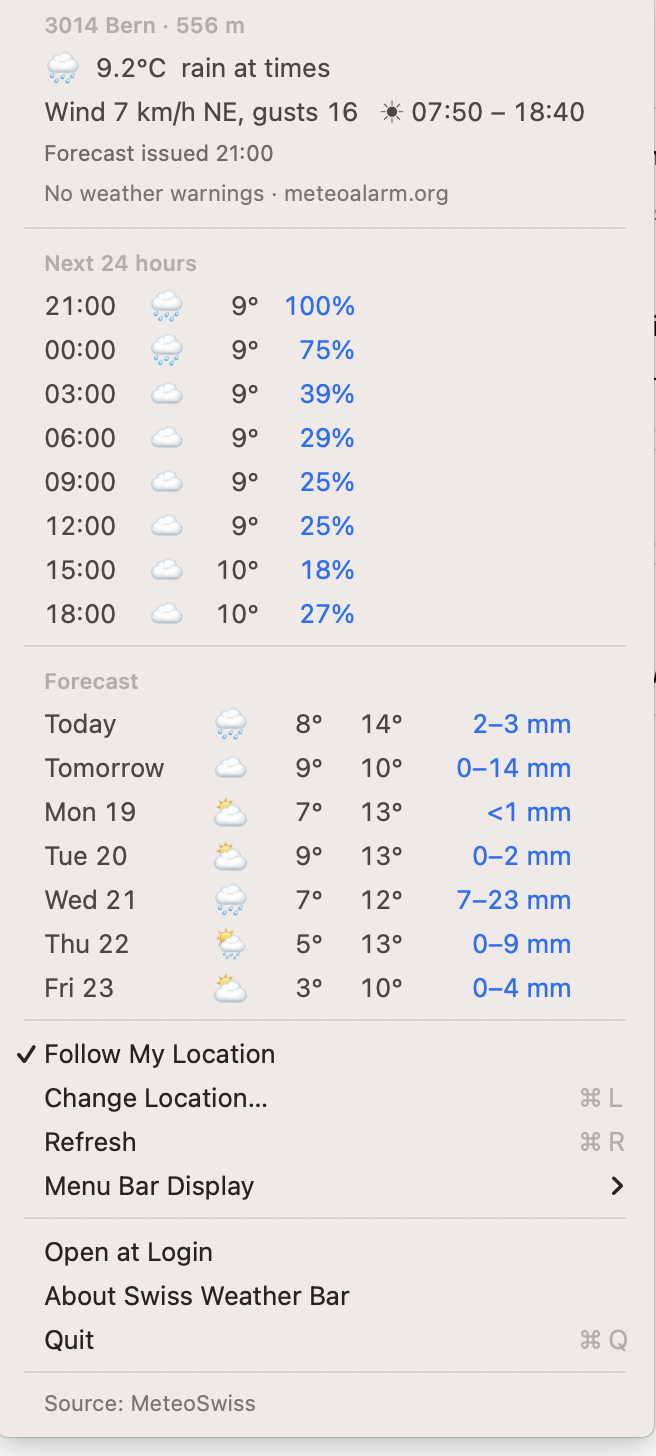
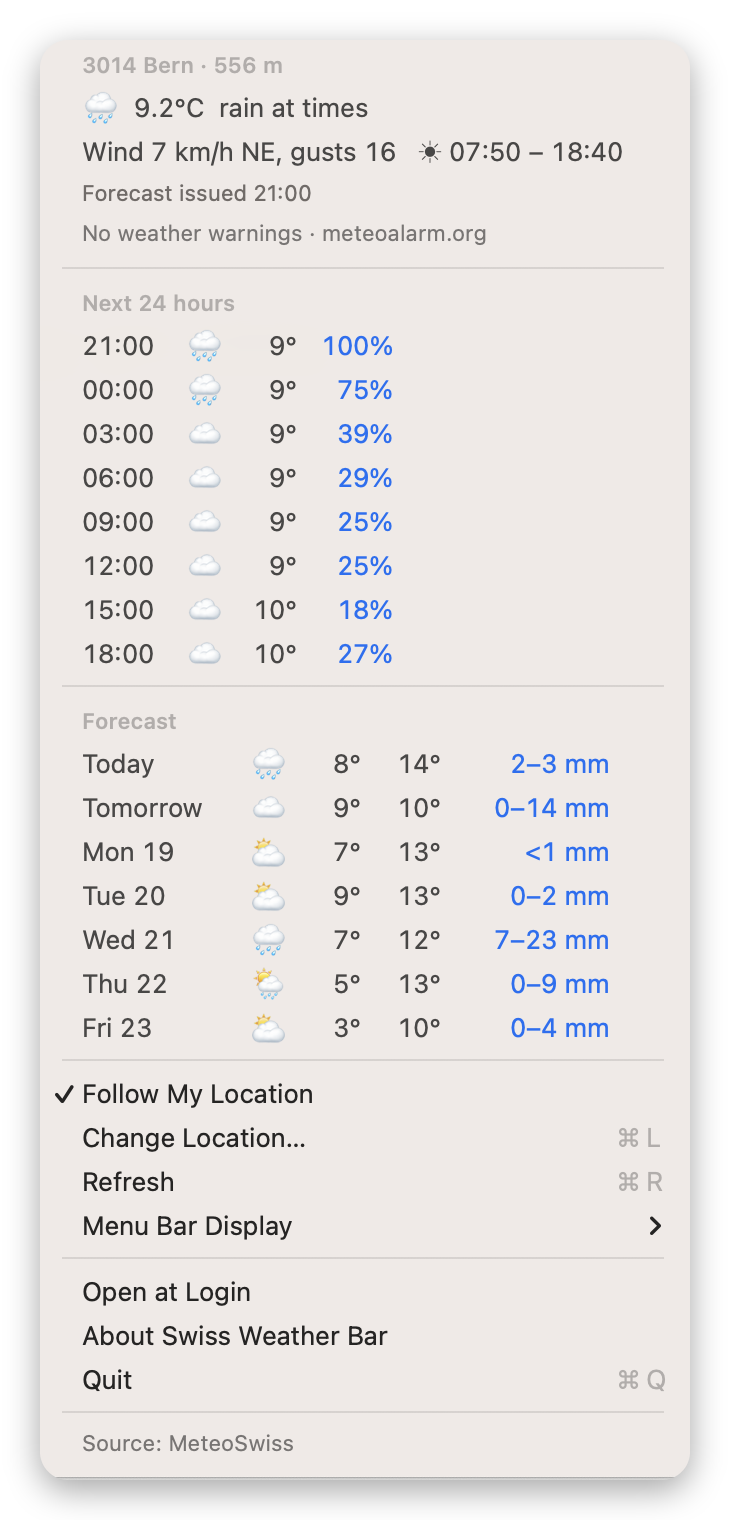
Place screenshot beside feature list

diff --git a/README.md b/README.md
@@ -4,9 +4,11 @@
 ![macOS 13+](https://img.shields.io/badge/macOS-13%2B-blue)
 [![MIT licence](https://img.shields.io/badge/licence-MIT-blue.svg)](LICENSE)
 
-A small macOS menu bar app that shows the local weather forecast for any Swiss postcode.
+<table>
+<tr>
+<td valign="top">
 
-<p align="center"><img src="docs/screenshot.png" alt="Swiss Weather Bar menu showing current conditions, the next 24 hours and a 7-day forecast" width="330"></p>
+A small macOS menu bar app that shows the local weather forecast for any Swiss postcode.
 
 - Current temperature and conditions in the menu bar
 - Weather warnings for your area from MeteoSwiss (via MeteoAlarm), with a 🟡 🟠 🔴 badge in the menu bar
@@ -19,6 +21,13 @@ A small macOS menu bar app that shows the local weather forecast for any Swiss p
 - In English, German, French and Italian, following your Mac's language
 
 Free and open source. No account, no tracking, no ads.
+
+</td>
+<td valign="top" width="340">
+<img src="docs/screenshot.png" alt="Swiss Weather Bar menu showing current conditions, the next 24 hours and a 7-day forecast" width="340">
+</td>
+</tr>
+</table>
 
 ## Data source
 
